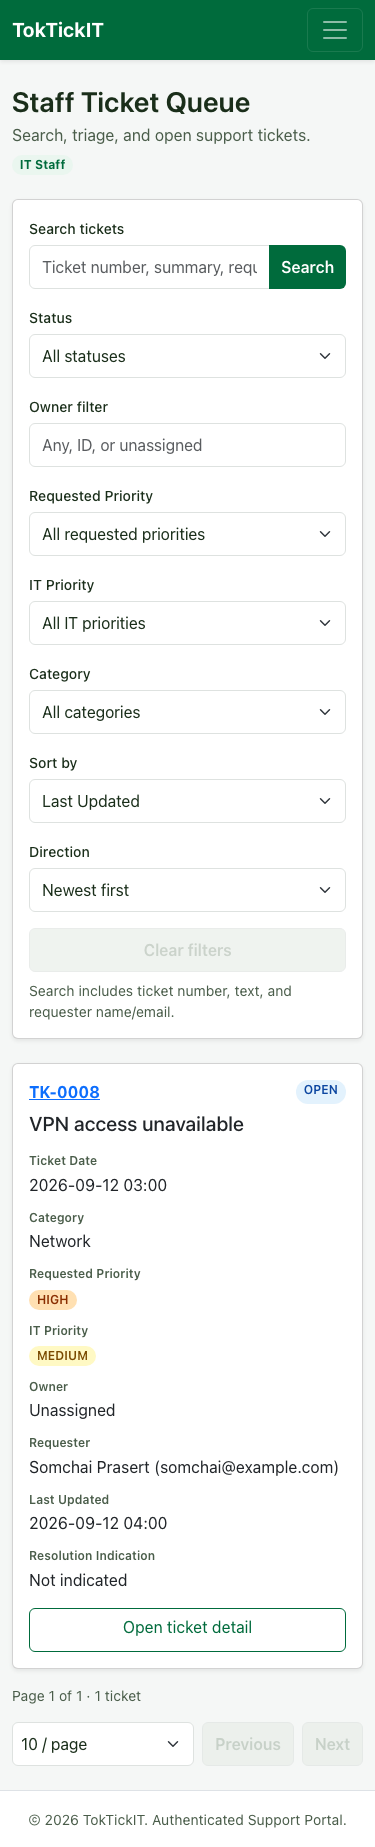
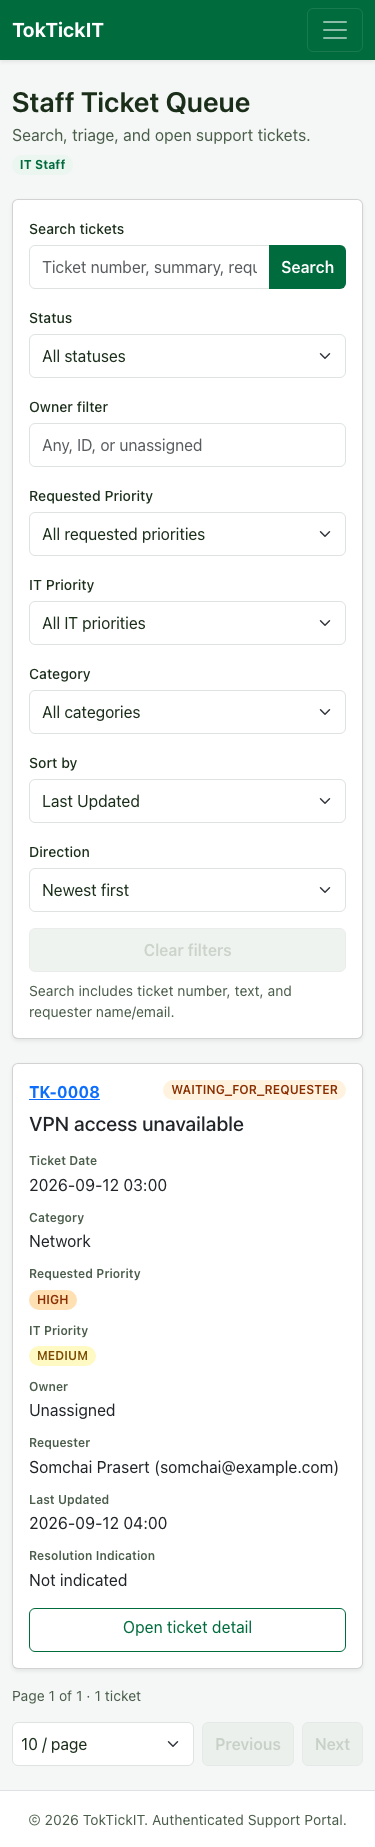
fix(ui): prevent staff queue text overlap across viewports

Changed region(s): [[0.44, 0.5864, 0.9387, 0.6172]]

diff --git a/e2e/lab-03/staff-ticket-flow.spec.ts b/e2e/lab-03/staff-ticket-flow.spec.ts
@@ -28,10 +28,11 @@ function detailTicket() {
   };
 }
 
-async function installMockApi(page: Page, role: Role = 'IT_STAFF') {
+async function installMockApi(page: Page, role: Role = 'IT_STAFF', queueStatus: string = 'OPEN') {
   const user = role === 'IT_STAFF' ? staff : admin;
   const requests: Array<{ method: string; url: string; body: string | null }> = [];
   const ticket = detailTicket();
+  const queue = { ...queueTicket(), currentStatus: queueStatus };
   await page.route('**/api/**', async route => {
     const request = route.request();
     const url = new URL(request.url());
@@ -39,7 +40,7 @@ async function installMockApi(page: Page, role: Role = 'IT_STAFF') {
     if (request.method() === 'GET' && url.pathname === '/api/auth/me') return json(route, { data: user });
     if (request.method() === 'GET' && url.pathname === '/api/categories') return json(route, { data: categories });
     if (request.method() === 'GET' && url.pathname === '/api/staff/tickets/owners') return json(route, { data: [staff, admin] });
-    if (request.method() === 'GET' && url.pathname === '/api/staff/tickets') return json(route, { data: [queueTicket()], pagination: { page: 1, pageSize: 10, totalItems: 1, totalPages: 1, hasNextPage: false, hasPreviousPage: false } });
+    if (request.method() === 'GET' && url.pathname === '/api/staff/tickets') return json(route, { data: [queue], pagination: { page: 1, pageSize: 10, totalItems: 1, totalPages: 1, hasNextPage: false, hasPreviousPage: false } });
     if (request.method() === 'GET' && url.pathname === '/api/tickets/8') return json(route, { data: ticket });
     if (request.method() === 'PATCH' && url.pathname === '/api/tickets/8/owner') return json(route, { data: { ...ticket, owner: { id: 20, name: 'Staff One', email: 'staff@example.com', role: 'IT_STAFF' } } });
     if (request.method() === 'PATCH' && url.pathname === '/api/tickets/8/it-priority') return json(route, { data: { ...ticket, itPriority: 'CRITICAL' } });
@@ -54,6 +55,17 @@ async function installMockApi(page: Page, role: Role = 'IT_STAFF') {
 async function expectNoHorizontalOverflow(page: Page) {
   const dimensions = await page.evaluate(() => ({ width: document.documentElement.scrollWidth, viewport: window.innerWidth }));
   expect(dimensions.width).toBeLessThanOrEqual(dimensions.viewport);
+}
+
+async function expectNoBadgeOverflow(page: Page) {
+  const hasOverflow = await page.locator('.staff-queue-table tbody td').evaluateAll(cells => cells.some(cell => {
+    const badge = cell.querySelector<HTMLElement>('.badge');
+    if (!badge) return false;
+    const cellBounds = cell.getBoundingClientRect();
+    const badgeBounds = badge.getBoundingClientRect();
+    return badgeBounds.left < cellBounds.left - 1 || badgeBounds.right > cellBounds.right + 1;
+  }));
+  expect(hasOverflow).toBe(false);
 }
 
 test('Staff can search the queue, open detail, and complete the Issue #41 workflow', async ({ page }) => {
@@ -105,13 +117,14 @@ test('Administrator can read the queue/detail but has no Staff mutation affordan
 });
 
 test('Staff queue meets required viewport representations without horizontal overflow', async ({ page }) => {
-  await installMockApi(page);
+  await installMockApi(page, 'IT_STAFF', 'WAITING_FOR_REQUESTER');
   for (const width of [1280, 768, 375]) {
     await page.setViewportSize({ width, height: 812 });
     await page.goto('/staff/tickets');
     await expect(page.getByRole('heading', { name: 'Staff Ticket Queue' })).toBeVisible();
     await expectReadableTextIndicators(page);
     await expectNoHorizontalOverflow(page);
+    await expectNoBadgeOverflow(page);
     await page.screenshot({ path: path.resolve(__dirname, `../../artifacts/lab-03/screenshots/staff-queue/${width}.png`), fullPage: true });
 
     if (width < 768) {

diff --git a/client/src/pages/StaffTicketQueue.tsx b/client/src/pages/StaffTicketQueue.tsx
@@ -271,7 +271,7 @@ export function StaffTicketQueue() {
             </table>
           </div>
           <div className="staff-queue-cards d-grid gap-3">{tickets.map(ticket => <article className="card shadow-sm p-3" key={ticket.id}>
-            <div className="d-flex justify-content-between gap-2"><Link className="fw-bold" to={`/staff/tickets/${ticket.id}`}>{ticket.ticketNumber}</Link><Badge type="status" value={ticket.currentStatus} /></div>
+            <div className="staff-queue-card-header d-flex justify-content-between gap-2"><Link className="fw-bold" to={`/staff/tickets/${ticket.id}`}>{ticket.ticketNumber}</Link><Badge type="status" value={ticket.currentStatus} /></div>
             <h2 className="h5 mt-2 mb-3">{ticket.summary}</h2>
             <div className="staff-queue-card-grid"><QueueCell label="Ticket Date">{formatTicketDateTime(ticket.ticketDate)}</QueueCell><QueueCell label="Category">{ticket.category.name}</QueueCell><QueueCell label="Requested Priority"><Badge type="priority" value={ticket.requestedPriority} /></QueueCell><QueueCell label="IT Priority"><Badge type="priority" value={ticket.itPriority} /></QueueCell><QueueCell label="Owner">{ticket.owner?.name ?? 'Unassigned'}</QueueCell><QueueCell label="Requester">{ticket.requester.name} ({ticket.requester.email})</QueueCell><QueueCell label="Last Updated">{formatTicketDateTime(ticket.updatedAt)}</QueueCell><QueueCell label="Resolution Indication">{ticket.problemAppearsResolvedAt ? formatTicketDateTime(ticket.problemAppearsResolvedAt) : 'Not indicated'}</QueueCell></div>
             <Link className="btn btn-zen-secondary mt-3 w-100" to={`/staff/tickets/${ticket.id}`}>Open ticket detail</Link>

diff --git a/client/src/index.css b/client/src/index.css
@@ -465,6 +465,13 @@ textarea.form-control[readonly] {
 .staff-queue-table-wrap { overflow: hidden; }
 .staff-queue-table { table-layout: fixed; width: 100%; font-size: 0.875rem; }
 .staff-queue-table th, .staff-queue-table td { overflow-wrap: anywhere; vertical-align: middle; }
+.staff-queue-table .badge {
+  display: inline-block;
+  max-width: 100%;
+  overflow-wrap: anywhere;
+  text-align: center;
+  white-space: normal;
+}
 .staff-queue-table th:nth-child(1) { width: 7%; }
 .staff-queue-table th:nth-child(2) { width: 8%; }
 .staff-queue-table th:nth-child(3) { width: 12%; }
@@ -481,12 +488,16 @@ textarea.form-control[readonly] {
 .staff-queue-cards { display: none !important; }
 .staff-queue-card-grid { display: grid; gap: 0.75rem; grid-template-columns: repeat(2, minmax(0, 1fr)); }
 .staff-queue-cell { min-width: 0; }
+.staff-queue-cell > span:last-child { display: block; min-width: 0; overflow-wrap: anywhere; }
 .staff-queue-cell-label { color: var(--text-secondary); display: block; font-size: 0.75rem; font-weight: 600; margin-bottom: 0.15rem; }
+.staff-queue-card-header { align-items: flex-start; }
+.staff-queue-card-header > a { min-width: 0; overflow-wrap: anywhere; }
+.staff-queue-card-header > .badge,
+.staff-queue-card-grid .badge { max-width: 100%; overflow-wrap: anywhere; text-align: center; white-space: normal; }
 .internal-notes-panel { border-left: 4px solid var(--warning); }
 
 @media (min-width: 768px) and (max-width: 991.98px) {
   .staff-queue-table { font-size: 0.75rem; }
-  .staff-queue-table .badge { white-space: normal; }
 }
 
 @media (max-width: 767.98px) {
